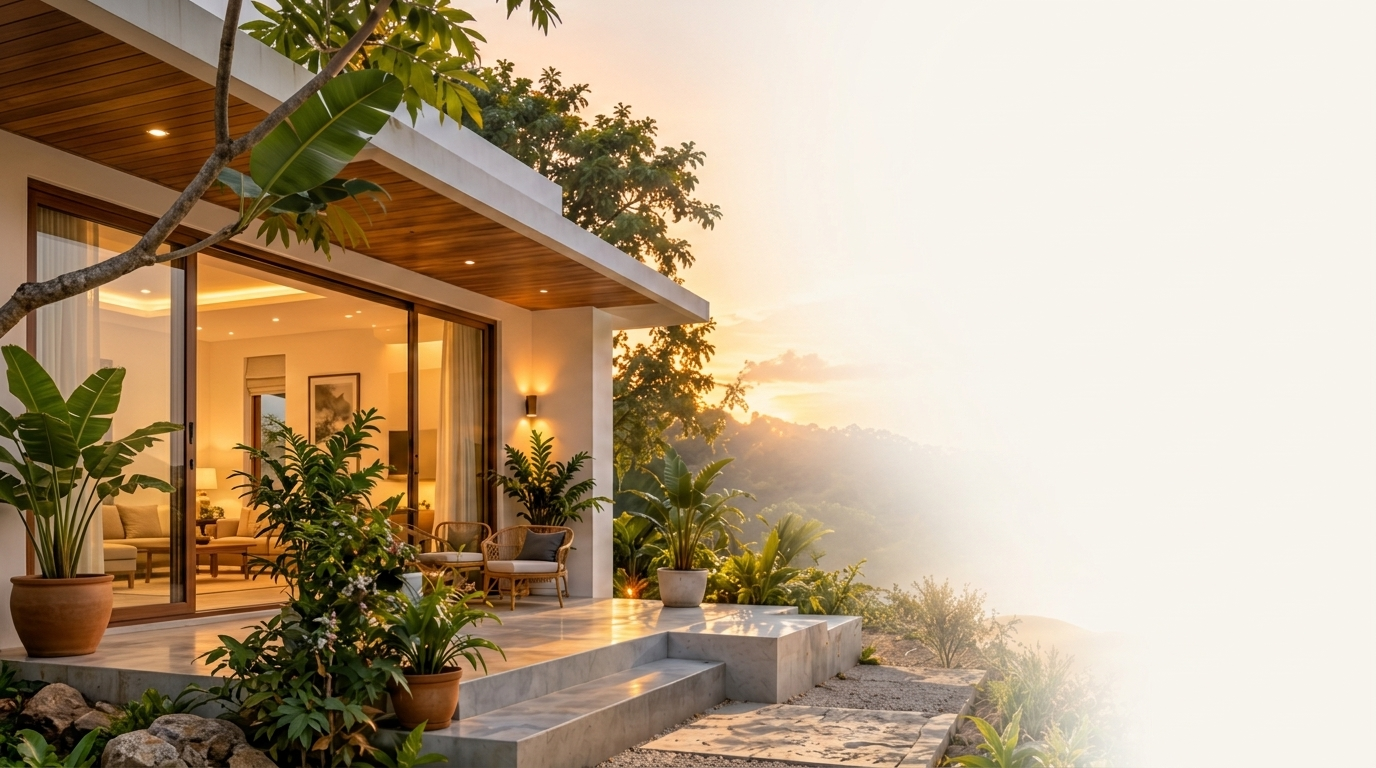
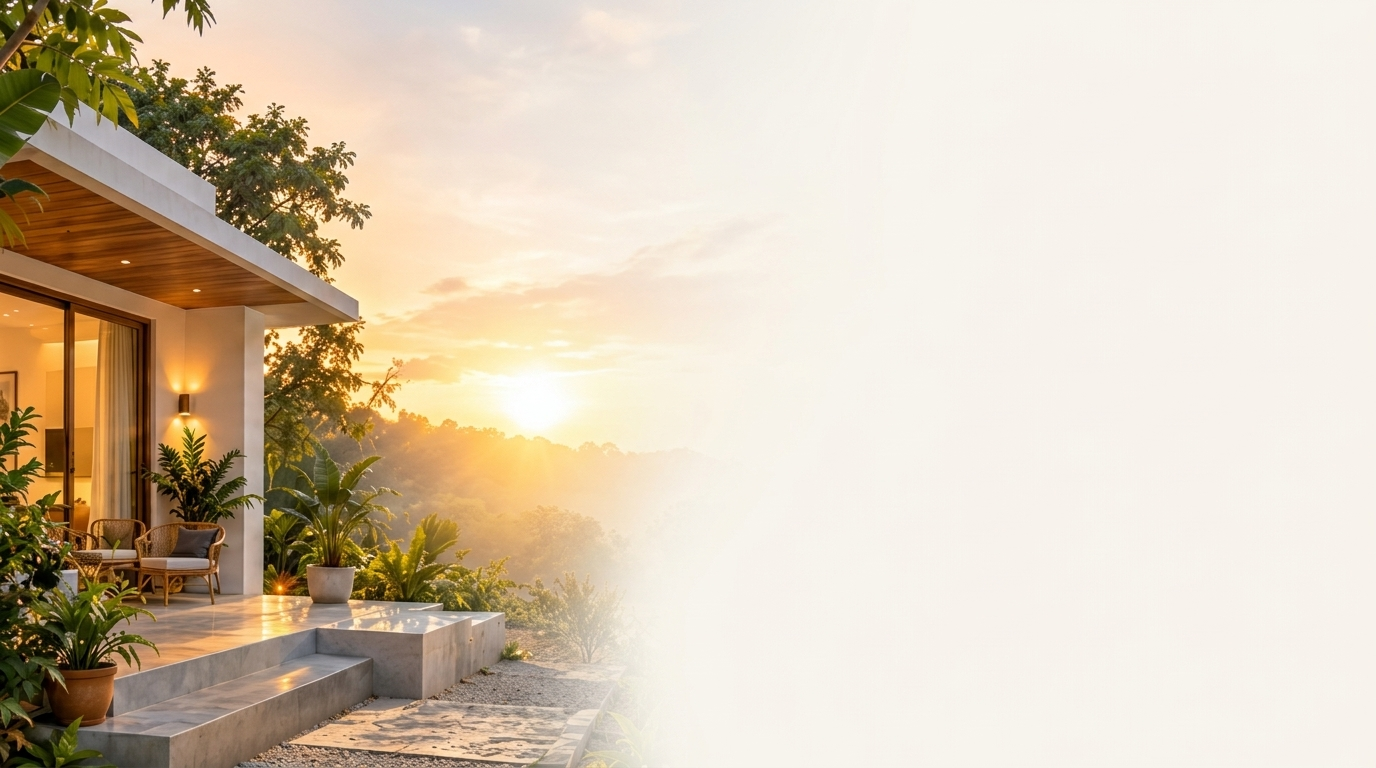
feat: add terrace background asset, adjust booking form positioning, and remove mockup analysis script

diff --git a/BookingPage.html b/BookingPage.html
@@ -285,7 +285,7 @@
                 </div>
 
                 <!-- ===================== RIGHT SIDE: THE EXACT FLOATING BOOKING FORM CARD ===================== -->
-                <div class="w-full lg:w-[530px] xl:w-[570px] 2xl:w-[600px] flex-shrink-0">
+                <div class="w-full lg:w-[530px] xl:w-[570px] 2xl:w-[600px] flex-shrink-0 lg:translate-x-6 xl:translate-x-10 2xl:translate-x-12">
                     <div class="bg-white rounded-[26px] p-6 sm:p-7 lg:p-8 shadow-[0_20px_55px_rgba(20,35,50,0.07)] border border-[#ECE6DC] relative z-20">
                         
                         <!-- Card Header Row (Clean without dividing line) -->

diff --git a/BookingPage.php b/BookingPage.php
@@ -333,7 +333,7 @@ if (isset($_POST['submit'])) {
                 </div>
 
                 <!-- ===================== RIGHT SIDE: THE EXACT FLOATING BOOKING FORM CARD ===================== -->
-                <div class="w-full lg:w-[530px] xl:w-[570px] 2xl:w-[600px] flex-shrink-0">
+                <div class="w-full lg:w-[530px] xl:w-[570px] 2xl:w-[600px] flex-shrink-0 lg:translate-x-6 xl:translate-x-10 2xl:translate-x-12">
                     <div class="bg-white rounded-[26px] p-6 sm:p-7 lg:p-8 shadow-[0_20px_55px_rgba(20,35,50,0.07)] border border-[#ECE6DC] relative z-20">
                         
                         <!-- Card Header Row (Clean without dividing line) -->
